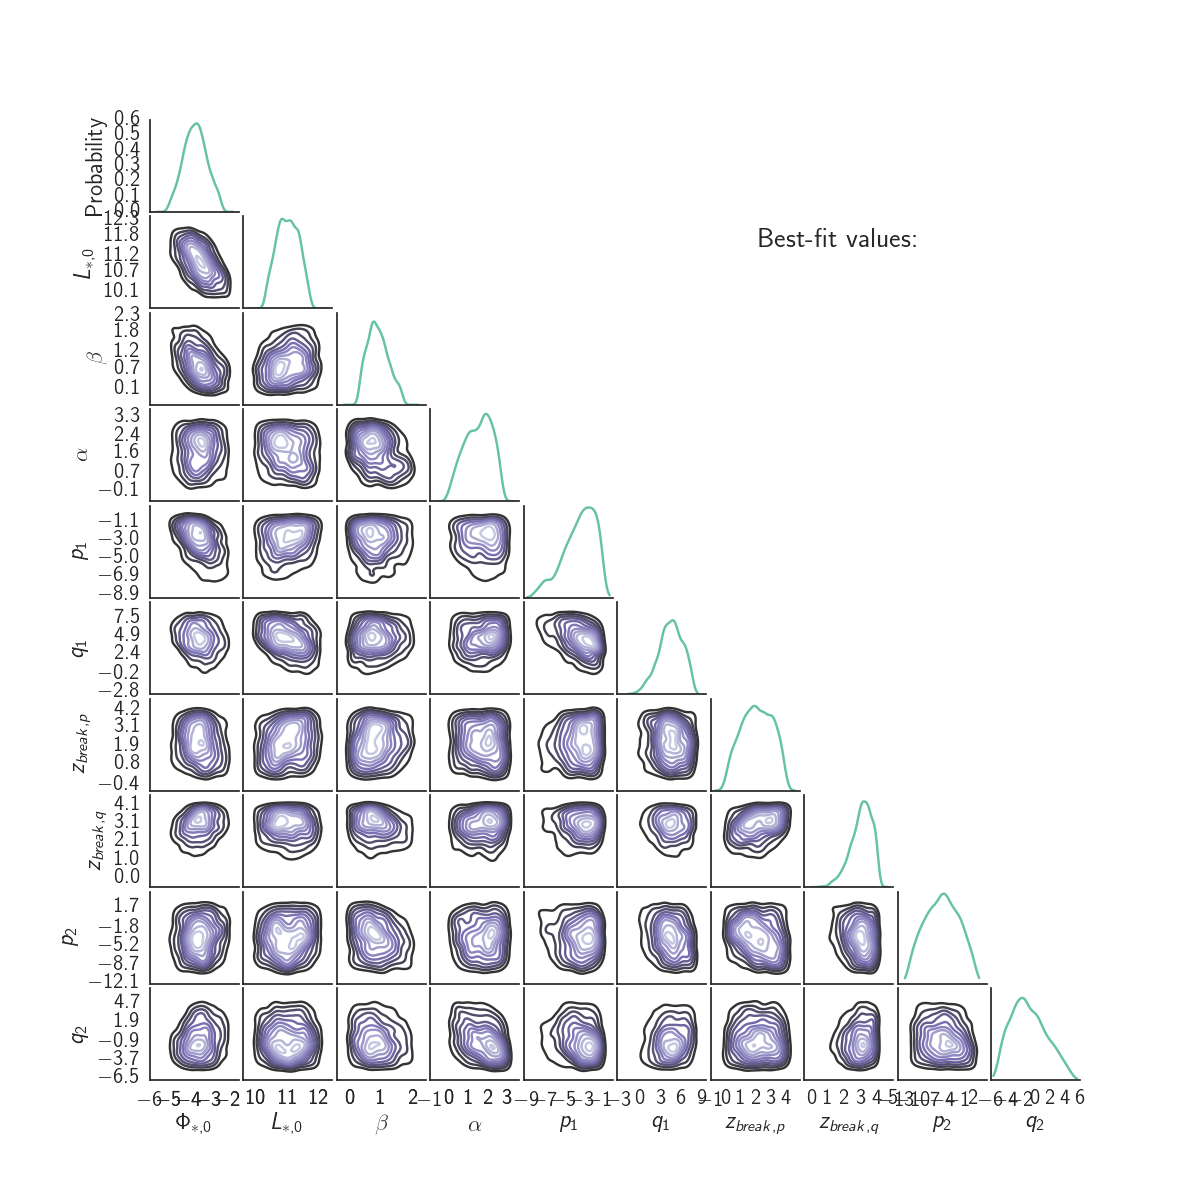
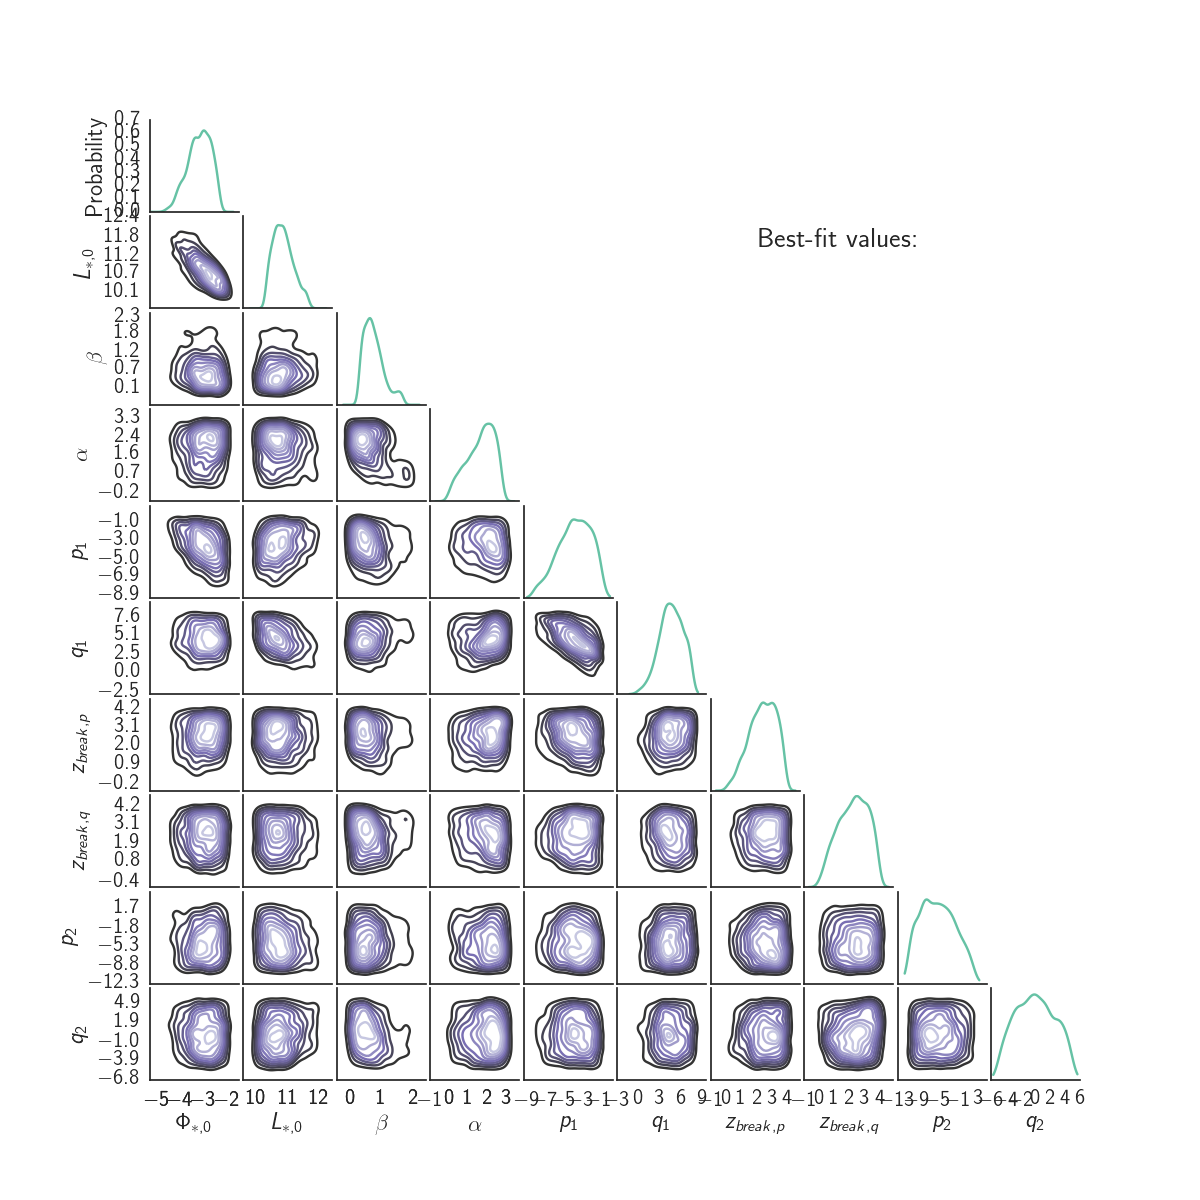
updated counts figures

diff --git a/trunk/python/OutputFile.py b/trunk/python/OutputFile.py
@@ -255,8 +255,8 @@ class NumberCounts:
             obs=self.best['observed'][bi]
             opts=np.where(obs > 1e-10)
             pts=np.where(model > 1e-10)
-            plt.plot(bins[opts],obs[opts],'o',label="Observation",color='black')
-            plt.plot(bins[pts],model[pts],'d',label="Best",color='black')
+            plt.plot(bins[opts],obs[opts],'-',label="Observation",color='black')
+            plt.plot(bins[pts],model[pts],'--',label="Best",color='black')
         else:
             model=self.single['modeled'][bi]
             pts=np.where(model > 1e-10)
@@ -267,8 +267,8 @@ class NumberCounts:
         sns.set(style='white',font_scale=1.5,palette='Set2')
         #sns.despine()
 
-        plt.plot(bins[mpts],medians[mpts],'s',label="Median",color='black')
-        plt.errorbar(bins[mpts],medians[mpts],yerr=[errlow[mpts],errhigh[mpts]],linestyle="None",color='gray')
+        plt.plot(bins[mpts],medians[mpts],':',label="Median",color='black')
+        plt.fill_between(bins[mpts],medians[mpts]-errlow[mpts],medians[mpts]+errhigh[mpts],color='gray',alpha=0.2)
         #this needs to be made non-run specific perhaps by repeating the band keywords from the model into this 
         plt.title("Counts Band "+str(band))
 

diff --git a/Examples/SPIRE/run_analysis.py b/Examples/SPIRE/run_analysis.py
@@ -21,19 +21,18 @@ mod.axis2="Flux1"
 mod.survey['area']=11.1
 
 mod.filters[0].setID("SPIRE_250")
-mod.filters[0].limit=12.7
+mod.filters[0].limit=25.4
 mod.filters[0].err=2.5
 mod.filters[0].compN=2.0
 mod.filters[0].compB=7.5
 mod.filters[0].compM=9.1
 
 mod.filters[1].setID("SPIRE_350")
-mod.filters[1].limit=0.01
+mod.filters[1].limit=0.1
 mod.filters[1].err=2.1
-#mod.filters[1].serr=1.0
 
 mod.filters[2].setID("SPIRE_500")
-mod.filters[2].limit=0.01
+mod.filters[2].limit=0.1
 mod.filters[2].err=3.0
 
 #mod.setLF("ModifiedSchecter")

diff --git a/trunk/src/functions.cpp b/trunk/src/functions.cpp
@@ -597,7 +597,6 @@ bool CompletenessCurve::accept(double flux){
   double tFlux=round(flux);
 
   if(valueStore.count(tFlux) == 0){
-    cout << "Here: " << tFlux << " " << _M << " " << _B << " " << _n << endl;
     valueStore[tFlux]=pow(1.0+exp((_M-tFlux)/_B),-_n);
   }
   return valueStore[tFlux] >= crng.flat(0.0,1.0);
